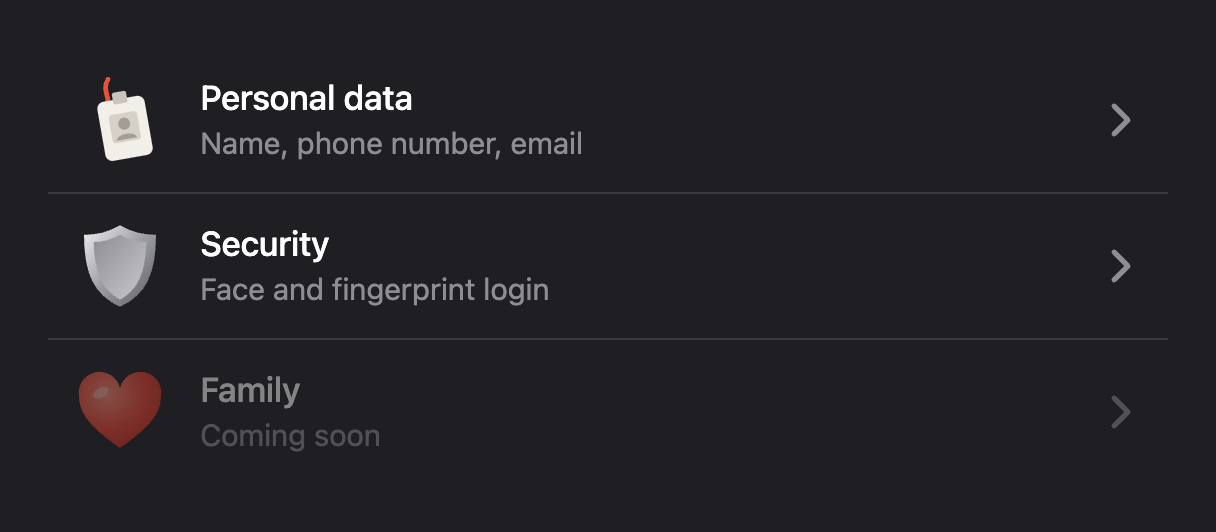
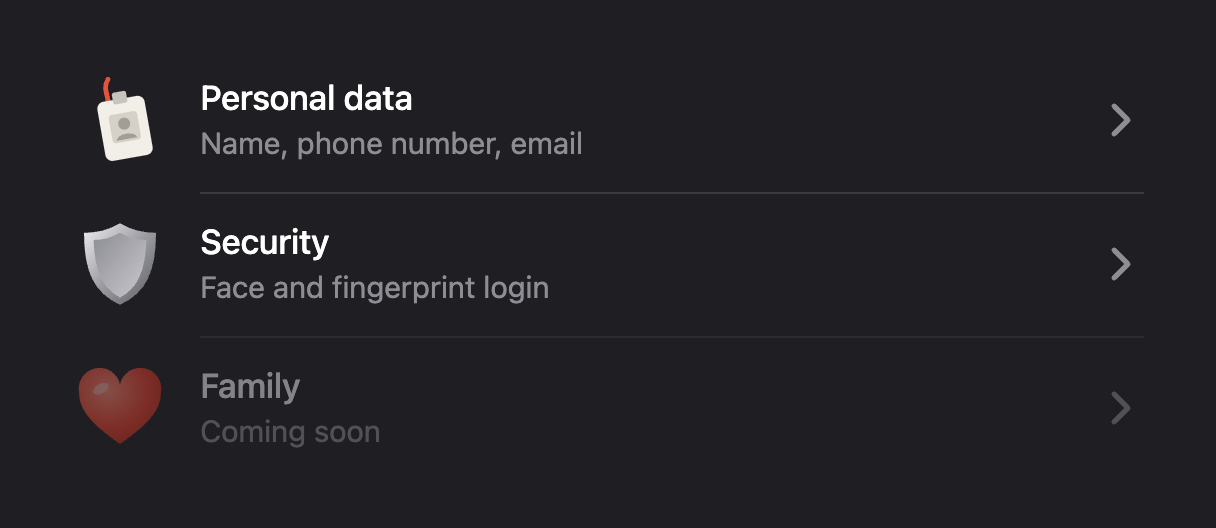
Inset list dividers and hide them around the highlighted item
Dividers used to run edge to edge and cut through the rounded hover
background. Now they start at the text column and fade out next to a
hovered, pressed or focused item.

diff --git a/src/components/List/List.css b/src/components/List/List.css
@@ -6,8 +6,34 @@
   list-style: none;
 }
 
-.vui-list--dividers > .vui-list__row + .vui-list__row {
-  border-top: 1px solid var(--vui-color-border);
+.vui-list--dividers > .vui-list__row + .vui-list__row > .vui-list-item::before {
+  content: '';
+  position: absolute;
+  top: 0;
+  right: var(--vui-list-item-padding-x);
+  left: calc(
+    var(--vui-list-item-padding-x) + var(--vui-list-item-icon-size) + var(--vui-list-item-gap)
+  );
+  height: 1px;
+  background: var(--vui-color-border);
+  transition: opacity 0.15s ease;
+}
+
+.vui-list--dividers
+  > .vui-list__row
+  + .vui-list__row
+  > .vui-list-item:not(:has(.vui-list-item__icon))::before {
+  left: var(--vui-list-item-padding-x);
+}
+
+.vui-list--dividers
+  > .vui-list__row
+  > .vui-list-item--interactive:is(:hover, :active, :focus-visible)::before,
+.vui-list--dividers
+  > .vui-list__row:has(> .vui-list-item--interactive:is(:hover, :active, :focus-visible))
+  + .vui-list__row
+  > .vui-list-item::before {
+  opacity: 0;
 }
 
 .vui-list-item {
@@ -21,6 +47,7 @@
   --vui-list-item-title-lines: 2;
   --vui-list-item-subtitle-lines: 3;
 
+  position: relative;
   display: flex;
   align-items: center;
   gap: var(--vui-list-item-gap);
@@ -144,7 +171,8 @@
 }
 
 @media (prefers-reduced-motion: reduce) {
-  .vui-list-item--interactive {
+  .vui-list-item--interactive,
+  .vui-list-item::before {
     transition: none;
   }
 }

diff --git a/README.md b/README.md
@@ -179,7 +179,7 @@ import { List, ListItem } from 'varkeui';
 | `href`          | `string`              | —            | Делает пункт ссылкой                                    |
 | `disabled`      | `boolean`             | `false`      | Для кликабельного пункта                                |
 
-У `List` один собственный проп — `dividers`: тонкие линии между пунктами.
+У `List` один собственный проп — `dividers`: тонкие линии между пунктами. Линия начинается от текста, а не от иконки, и прячется рядом с подсвеченным пунктом, чтобы не резать плашку наведения.
 
 ### Иконки
 
